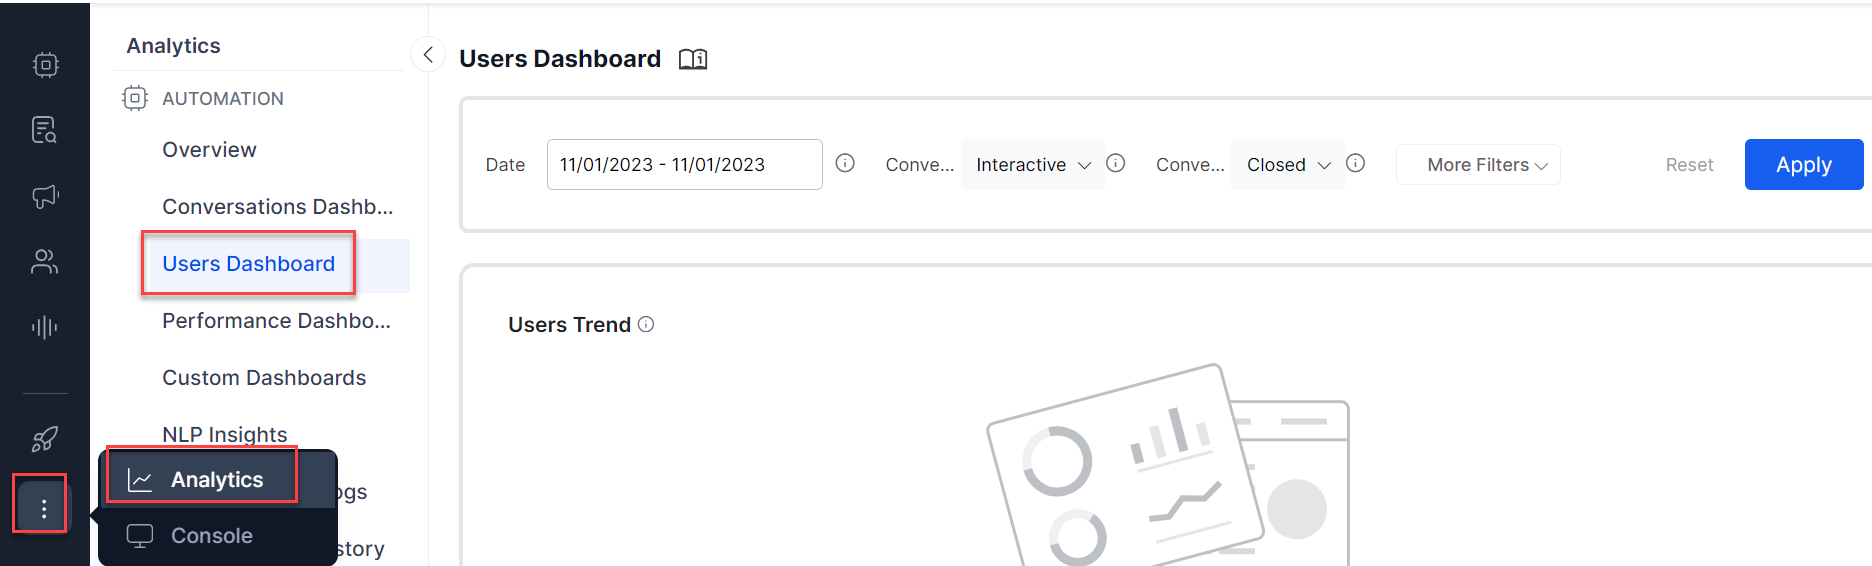
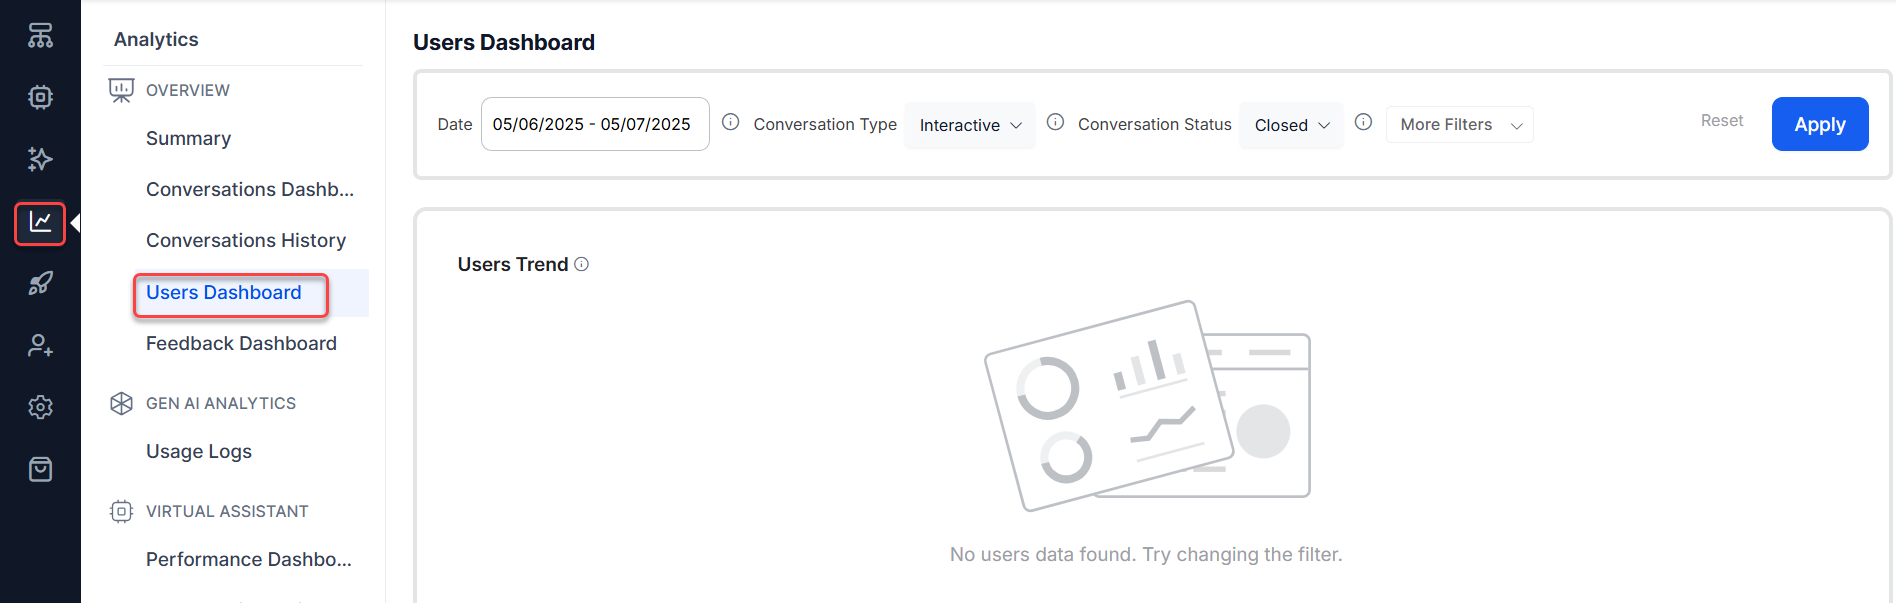
updated User Dashboard

diff --git a/docs/xo/analytics/overview/users-dashboard.md b/docs/xo/analytics/overview/users-dashboard.md
@@ -7,7 +7,6 @@ This dashboard displays the trends of total users interacting with the virtual a
 For example, an e-Commerce company requiring insights on user trend-based data for their mobile app can use the Users Dashboard to determine the following:
 
 
-
 * The new users, existing users, and returning users of their app.
 * The active users over a specific period.
 * The new and returning users on a specific day, week, or month.
@@ -18,33 +17,23 @@ For example, an e-Commerce company requiring insights on user trend-based data f
 
 
 
-1. Click the three dots on the left navigation pane and then click **Analytics**. **The Analytics** panel is displayed with the list of reports.
+1. Click **Analytics** on the left navigation pane. The Analytics panel is displayed with the list of reports.
 
     <img src="../images/users-dashboard.png" alt="Users Dashboard" title="Users Dashboard" style="border: 1px solid gray; zoom:80%;">
 
-2. Click **Users Dashboard** under the **Automation** section of the **Analytics** panel. The **Users Dashboard** is displayed on the right side of the page.
+2. Click **Users Dashboard** under the **Overview** section of the **Analytics** panel. The **Users Dashboard** is displayed on the right side of the page.
 3. Select appropriate filters on the dashboard and click **Apply**.
-
-!!! note
-
-    The Users dashboard is available only post-9.3 release, i.e. post-July 24, 2022.
-
 
 
 ## User Trends Considerations
-
-
 
 * If User-A has interacted with the bot on 25-Jan-2022 for the first time and the dashboard is viewed between 23-Jan-2022 to 26-Jan-2022 then this user is considered a new user.
 * If User-B has interacted with the bot on 25-Jan-2022 for the first time and again interacted with the bot on 26-Jan-2022, and if the dashboard is viewed between 23-Jan-2022 to 26-Jan-2022, then this user is considered as:
     * A new user on 25-Jan-2022
     * A returning user on 26-Jan-2022
-* If User-C has interacted with the bot on 21-Jan-2022 for the first time and again interacted with the bot on 26-Jan-2022, and the dashboard is viewed between 23-Jan-2022 to 26-Jan-2022, then, this user is considered as a returning user.
-
-[Learn more about New and Returning Users](../../kb/new-and-returning-users.md)
+* If User-C has interacted with the bot on 21-Jan-2022 for the first time and again interacted with the bot on 26-Jan-2022, and the dashboard is viewed between 23-Jan-2022 to 26-Jan-2022, then, this user is considered as a returning user. [Learn more about New and Returning Users](../../kb/new-and-returning-users.md)
 
 The **Users Dashboard** provides insights on the following user trend metrics:
-
 
 
 * **Total Unique Users**: The total number of unique users who interacted with the virtual assistant.
@@ -56,35 +45,30 @@ The **Users Dashboard** provides insights on the following user trend metrics:
 The key components of the Users Dashboard are:
 
 
-
 * **Users Trend**: The users’ trend shows the distribution of New Users, Returning Users, and Total Unique Users who have interacted with the virtual assistant over a period. This helps determine User Engagement for the selected period. 
 
-**Graph- Users’ Trend for the Selected Period**
+    **Graph- Users’ Trend for the Selected Period**
 
+    <img src="../images/users-trend.png" alt="Users Trend" title="Users Trend" style="border: 1px solid gray; zoom:80%;">
 
- <img src="../images/users-trend.png" alt="Users Trend" title="Users Trend" style="border: 1px solid gray; zoom:80%;">
-
-
-
- **Users Trend Summary**: This panel displays the real-time counts of the **Total Unique Users**, **New Users**, **Avg. Total Unique Users Per Day**, and **Avg. New Users Per Day**.
+    **Users Trend Summary**: This panel displays the real-time counts of the **Total Unique Users**, **New Users**, **Avg. Total Unique Users Per Day**, and **Avg. New Users Per Day**.
 
 The increment/decrement of the above user metrics’ counts is displayed as percentage values.
 
 
 * **Returning Users**: Displays the graph for the day-wise returning users (in percentage) for the selected dates and other filters. Here, Day 0 is the first time a user interacts with the virtual assistant. The returning users % is calculated for the consecutive days for the selected period. For example, in the following image, the number of users is 100% on Day 0 (first interaction) and 0% on Day 1 since none of the users who have already interacted with the virtual assistant have initiated a conversation on the same channel/browser. 
 
-**Graph- Returning Users Trend for the Selected Period**
+    **Graph- Returning Users Trend for the Selected Period**
 
 
-<img src="../images/returning-users.png" alt="Returning Users" title="Returning Users" style="border: 1px solid gray; zoom:80%;">
+    <img src="../images/returning-users.png" alt="Returning Users" title="Returning Users" style="border: 1px solid gray; zoom:80%;">
 
 
-* **Cohort Analysis**: This data visualization chart plots the weekly **new users** and the **percentage of returning users** based on the formula **_(Returning Users/New Users)*100_** on consecutive days to determine the retention rate. The Users Dashboard displays the Day N retention of daily, weekly, or monthly cohorts, within a customizable range of dates. For example, if you’re looking at the retention of daily cohorts acquired from July 13 to July 20, 2022, based on the filters selected, and the actual users returning on Day 2, the following **Cohort Analysis Chart** is displayed:
+    * **Cohort Analysis**: This data visualization chart plots the weekly **new users** and the **percentage of returning users** based on the formula **_(Returning Users/New Users)*100_** on consecutive days to determine the retention rate. The Users Dashboard displays the Day N retention of daily, weekly, or monthly cohorts, within a customizable range of dates. For example, if you’re looking at the retention of daily cohorts acquired from July 13 to July 20, 2022, based on the filters selected, and the actual users returning on Day 2, the following **Cohort Analysis Chart** is displayed:
 
 
 
-<img src="../images/cohort-analysis.png" alt="Cohort Analysis" title="Cohort Analysis" style="border: 1px solid gray; zoom:80%;">
-
+    <img src="../images/cohort-analysis.png" alt="Cohort Analysis" title="Cohort Analysis" style="border: 1px solid gray; zoom:80%;">
 
 
 ## Filter Criteria
